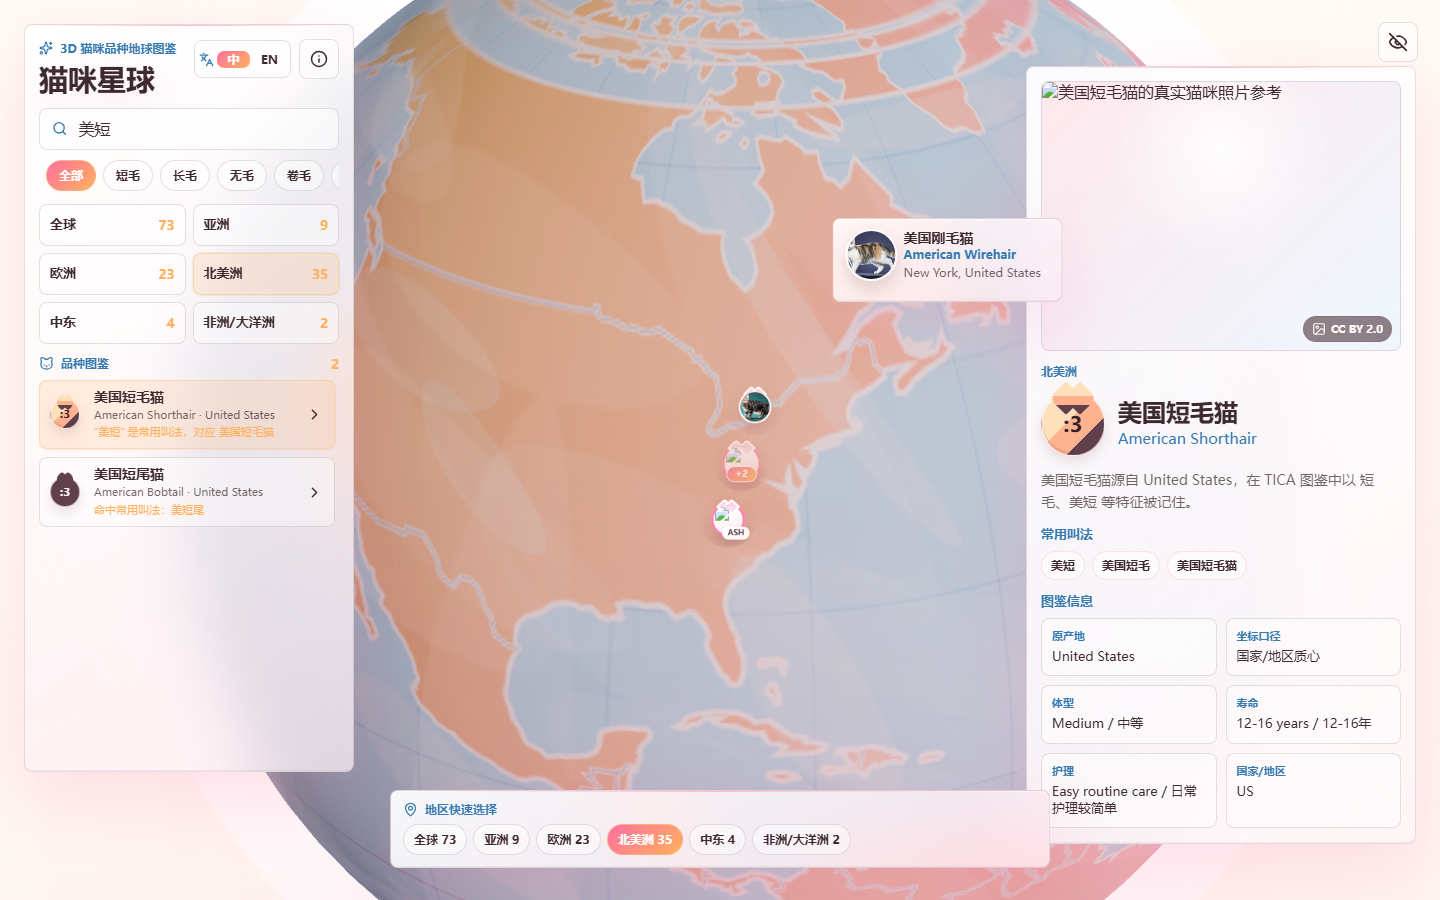
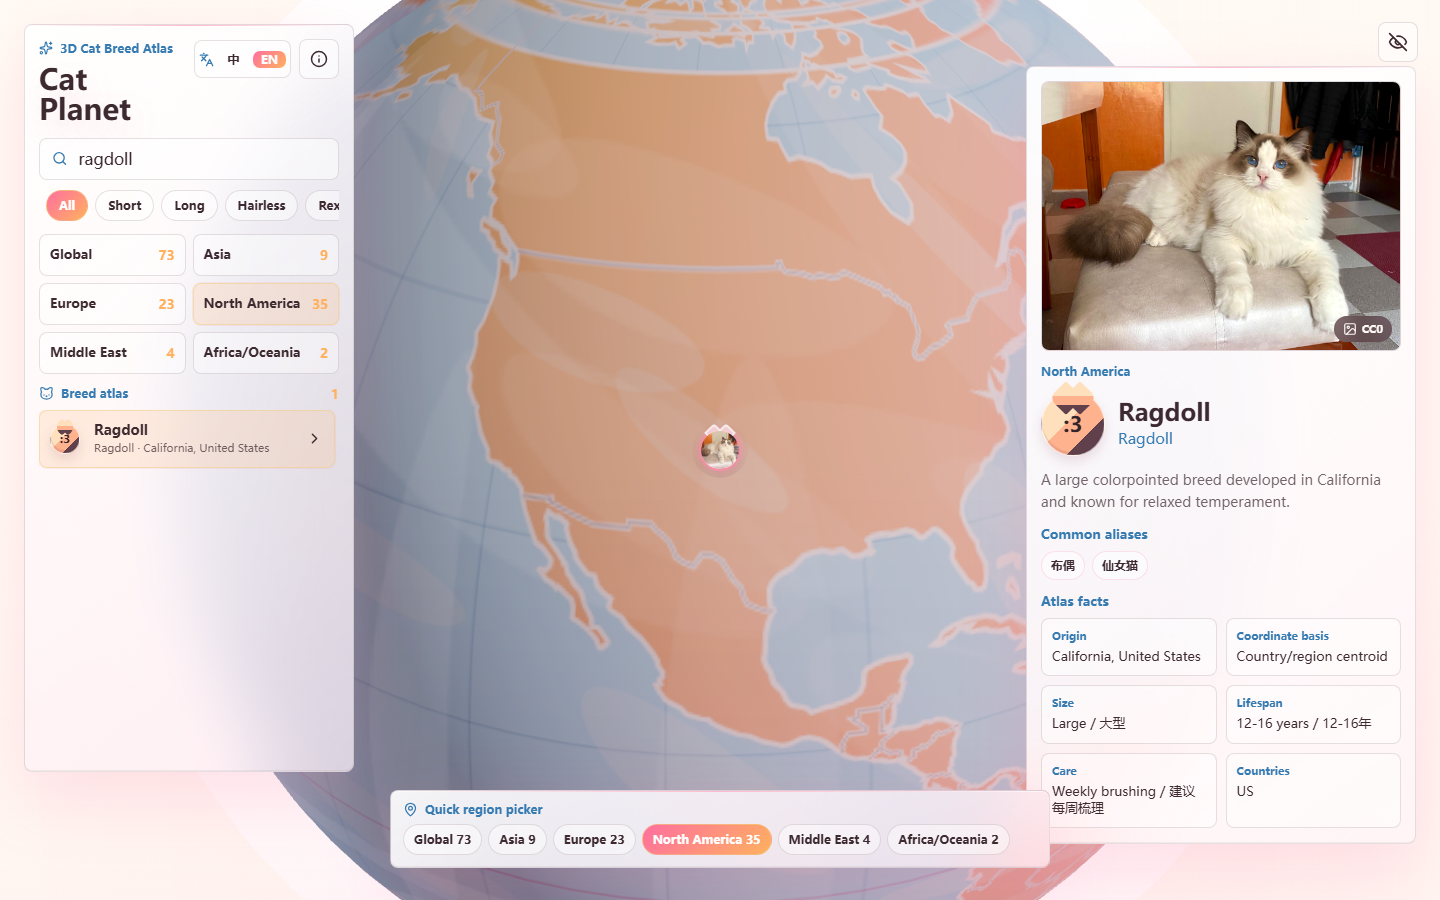
Refresh README screenshots

diff --git a/src/features/breeds/data/breeds.ts b/src/features/breeds/data/breeds.ts
@@ -1322,7 +1322,7 @@ const photoPool: BreedPhoto[] = [
 
 const breedPhotoRegistry: Record<string, BreedPhoto> = {
   'american-shorthair': {
-    src: 'https://upload.wikimedia.org/wikipedia/commons/5/5d/American_shorthair_cat_Portrait.jpg',
+    src: 'https://upload.wikimedia.org/wikipedia/commons/thumb/5/5d/American_shorthair_cat_Portrait.jpg/960px-American_shorthair_cat_Portrait.jpg',
     altZh: '\u7f8e\u56fd\u77ed\u6bdb\u732b\u771f\u5b9e\u8096\u50cf',
     altEn: 'Real American Shorthair cat portrait.',
     credit: 'Nickolas Titkov / Wikimedia Commons',

diff --git a/README.md b/README.md
@@ -12,9 +12,9 @@ https://qq598516797-dotcom.github.io/cat-planet/
 
 ![Cat Planet desktop home](docs/screenshots/desktop-home.png)
 
-### Photo Markers And Cluster Interaction
+### Breed Stories And Videos
 
-![Cat Planet cluster markers](docs/screenshots/desktop-cluster.png)
+![Cat Planet breed stories and videos](docs/screenshots/story-highlight.png)
 
 ### Breed Detail Reading View
 